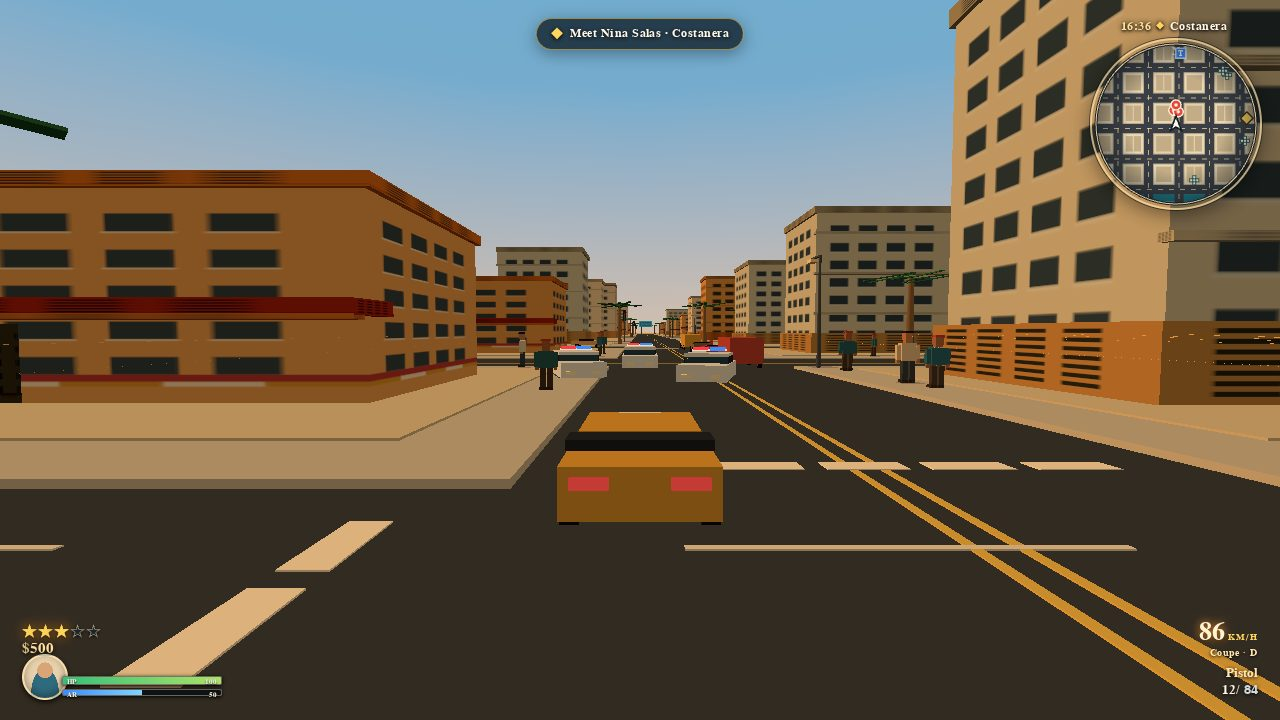
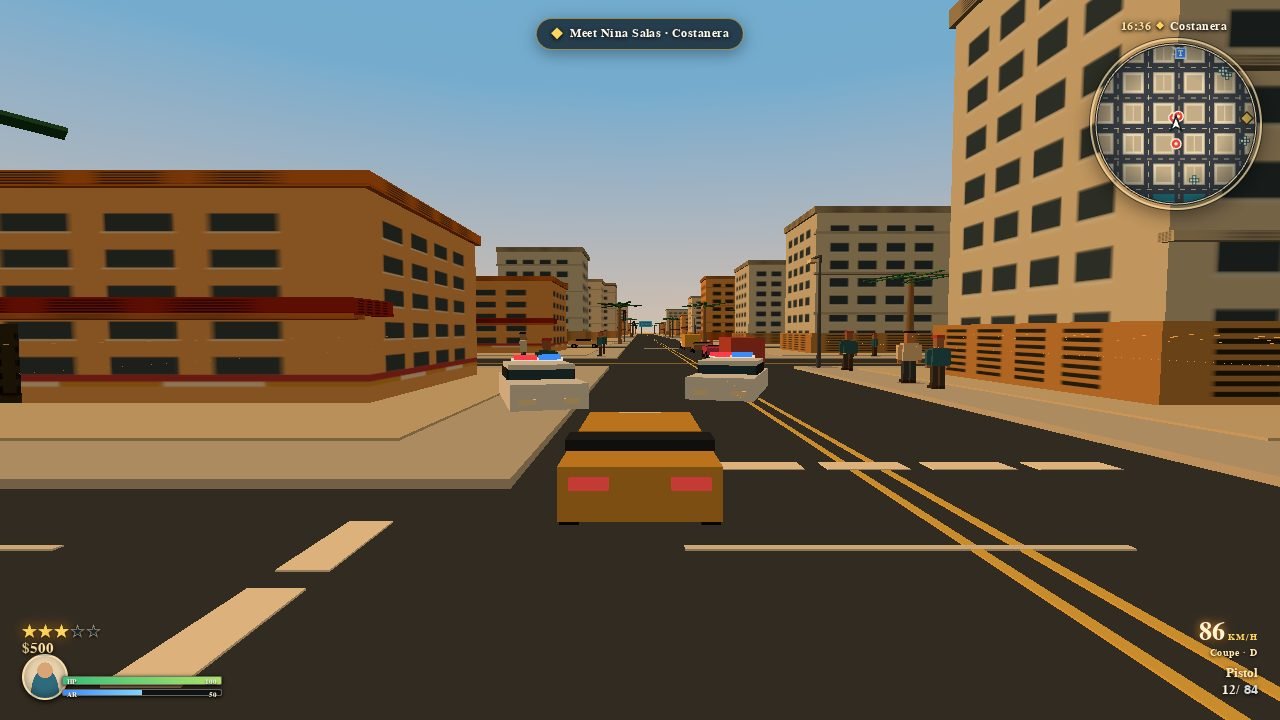
Regenerate screenshots from the current shot staging

diff --git a/game/src/gameplay/shots.js b/game/src/gameplay/shots.js
@@ -17,7 +17,7 @@ const SHOTS = {
     cruisers: [
       { x: -167, z: 206, heading: 0.3 },
       { x: -161, z: 204, heading: -0.3 },
-      { x: -164, z: 221, heading: 0 },
+      { x: -164, z: 240, heading: 0 },
     ],
   },
   '3-combat': {
